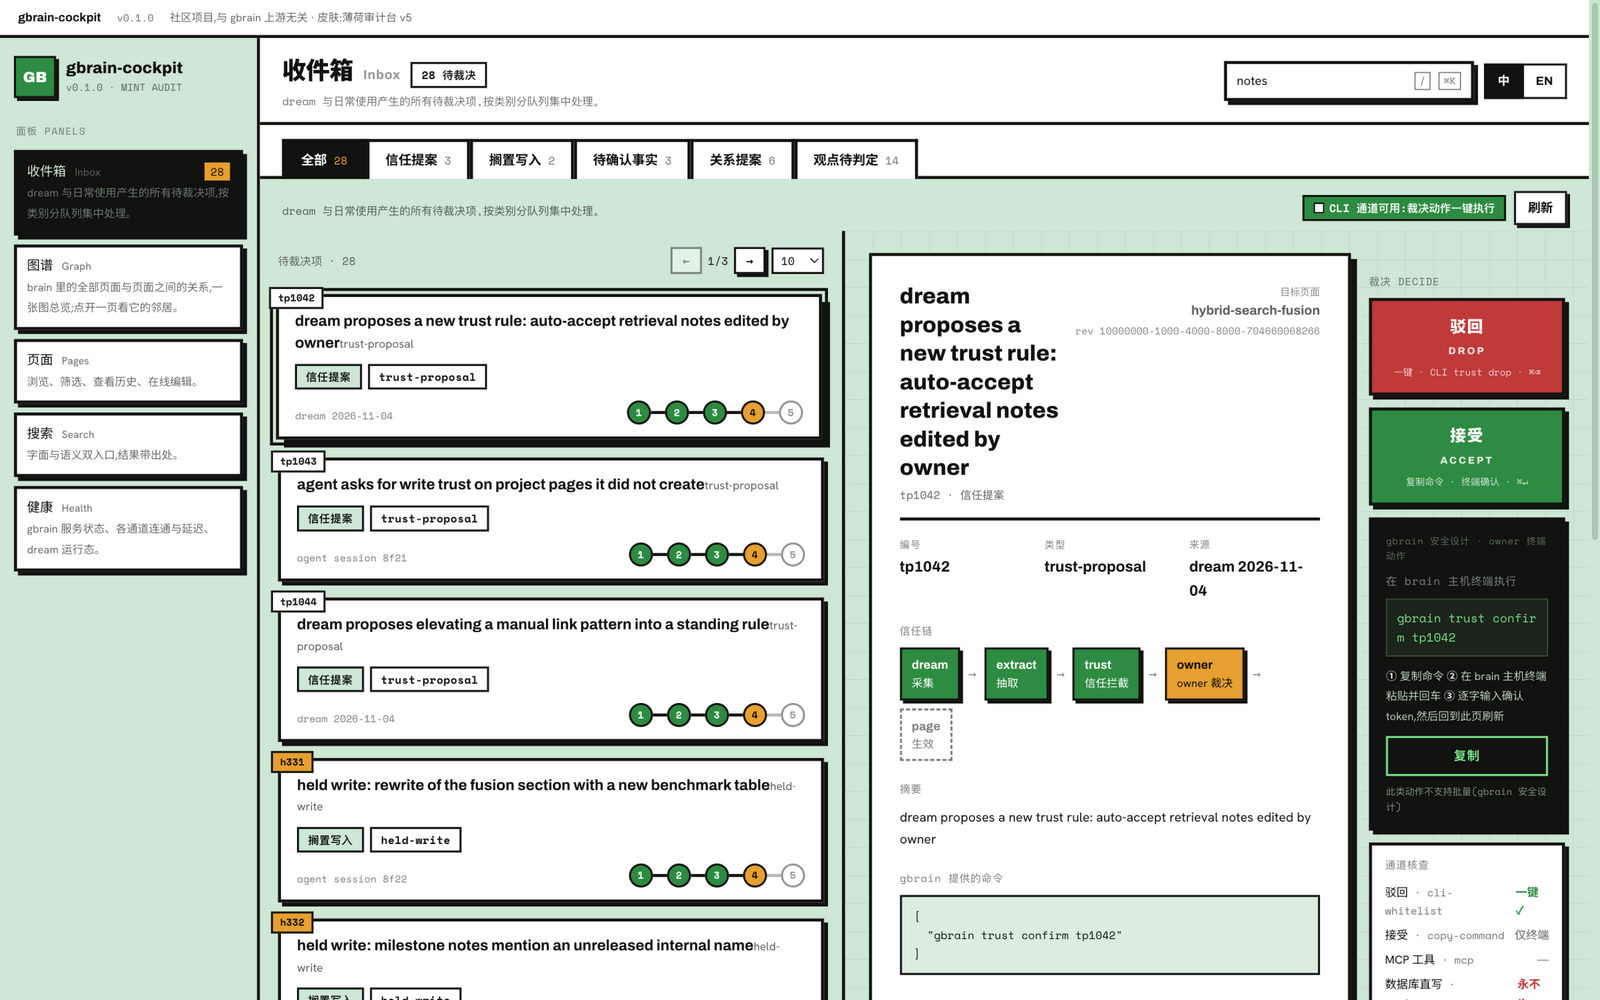
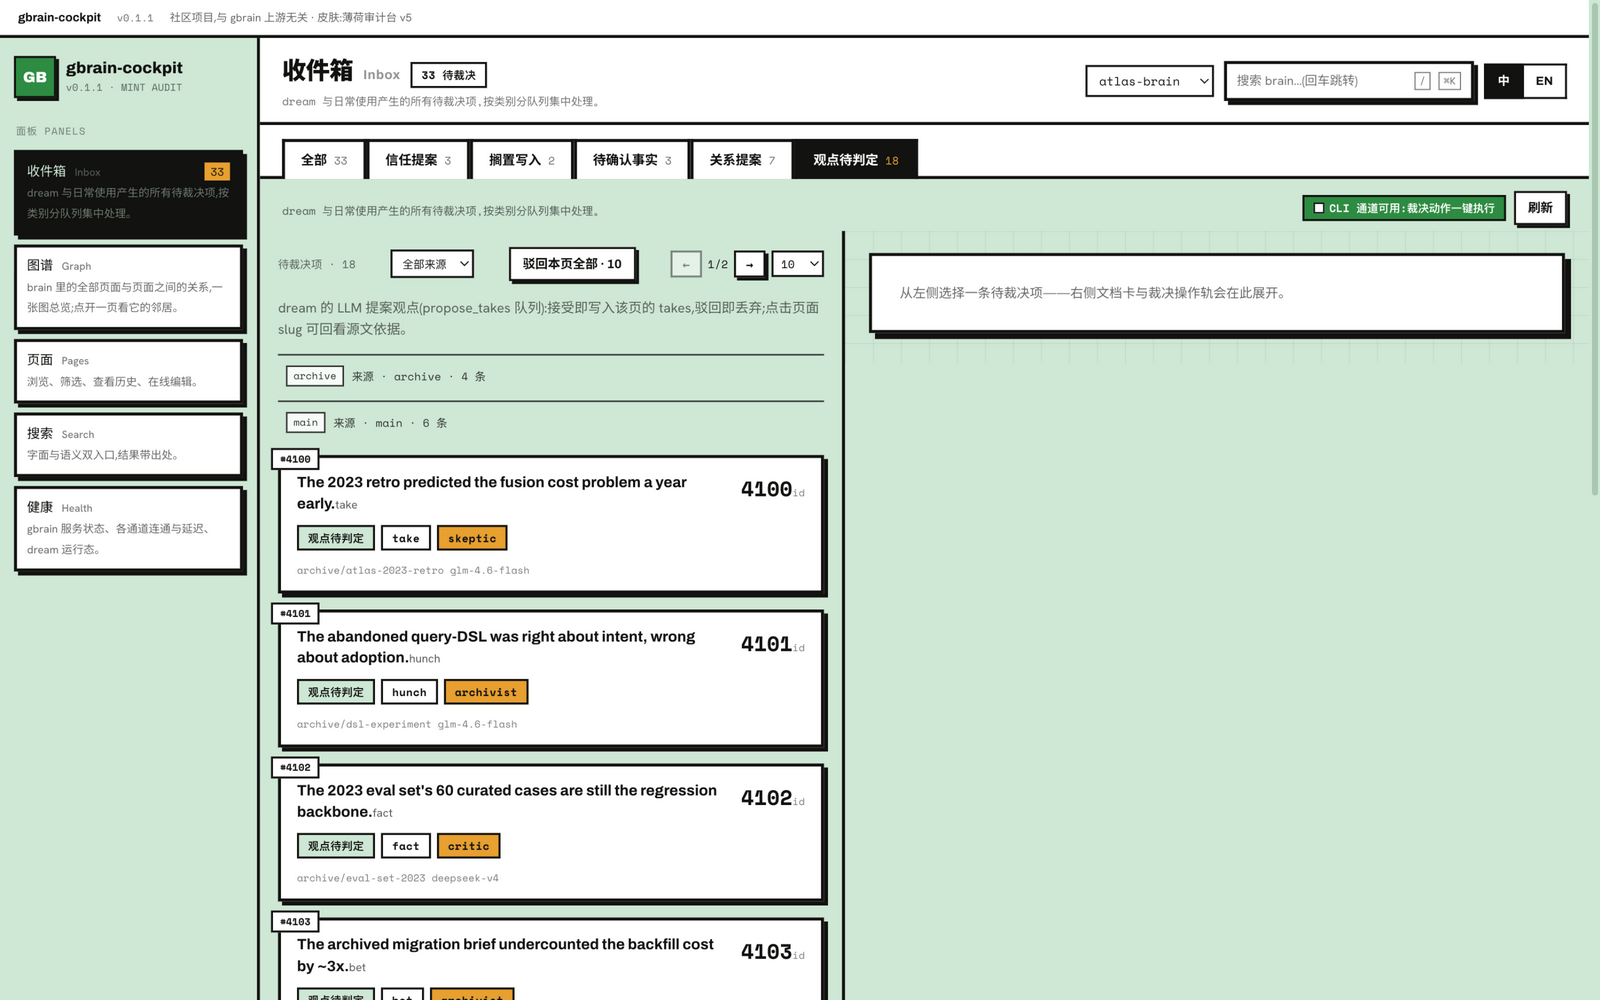
docs: re-shoot screenshots on the dual-source demo dataset
All ten screenshots (five panels × zh/en) now run on the two-source demo
brain: the search frame shows the same-slug pair with per-source chips and
the「same slug in other sources」drawer note, the graph frame shows
source-colored nodes (main 117 / archive 16) with the dashed cross-source
relation style and the sources legend, the inbox frame shows takes grouped
by source and the brain switcher in the top bar. Captions state the data
premise.

diff --git a/README.md b/README.md
@@ -45,17 +45,17 @@ See the [feature guide](docs/features.md) and the [architecture overview](docs/a
 
 <p align="center">
   <img src="docs/screenshots/en/inbox.png" alt="Inbox — the adjudication desk: queue cards, document view, one-key stamps and the terminal-confirmation copy block" width="49%">
-  <img src="docs/screenshots/en/graph.png" alt="Graph — the whole brain on one canvas, community-colored with a relation-type legend" width="49%">
+  <img src="docs/screenshots/en/graph.png" alt="Graph — the whole brain on one canvas, source-colored with a legend; cross-source relations render dashed" width="49%">
 </p>
 <p align="center">
   <img src="docs/screenshots/en/pages.png" alt="Pages — type facets, deep pagination, receipt-protocol editing" width="49%">
-  <img src="docs/screenshots/en/search.png" alt="Search — hybrid results with scores and snippets" width="49%">
+  <img src="docs/screenshots/en/search.png" alt="Search — hybrid results with scores, snippets and per-source chips (same-slug pages in two sources both list, with a jump between them)" width="49%">
 </p>
 <p align="center">
   <img src="docs/screenshots/en/health.png" alt="Health — channel status, latency gauges and the safety checklist" width="49%">
 </p>
 
-*Screenshots run on synthetic demo data (a 117-page brain with power-law link distribution) — desensitized by construction; the UI itself is what ships.*
+*Screenshots run on synthetic demo data (a 133-page two-source brain — 117 live pages + a 16-page federated archive, including one same-slug pair — with power-law link distribution) — desensitized by construction; the UI itself is what ships.*
 
 ## Quick start
 
